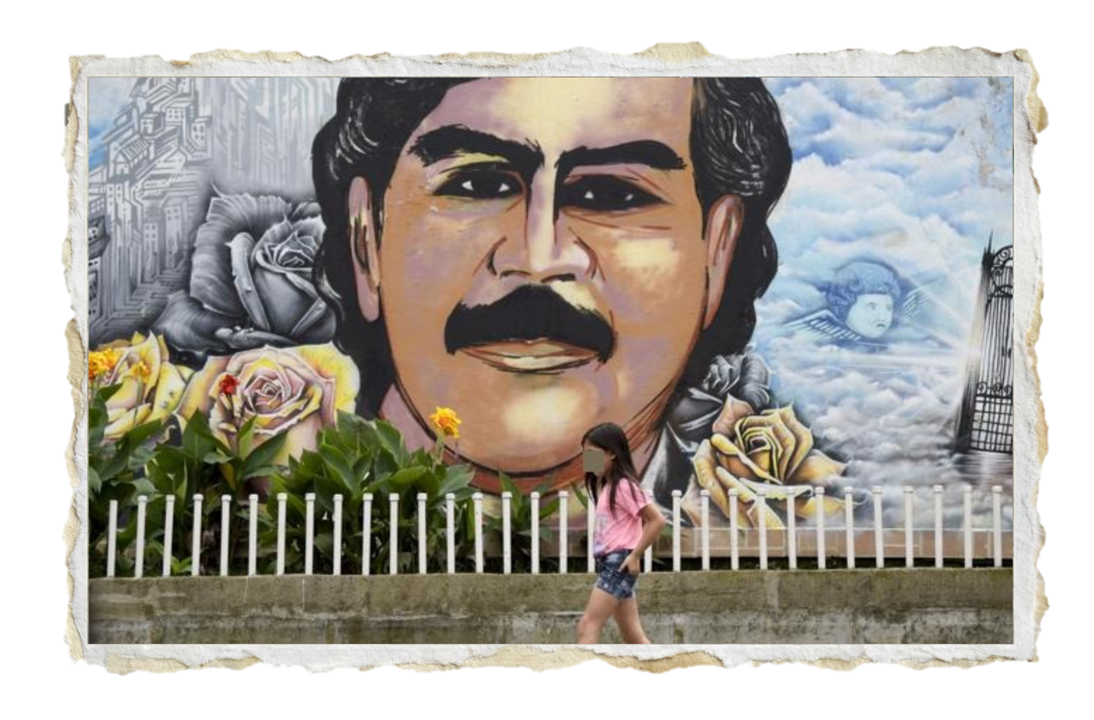
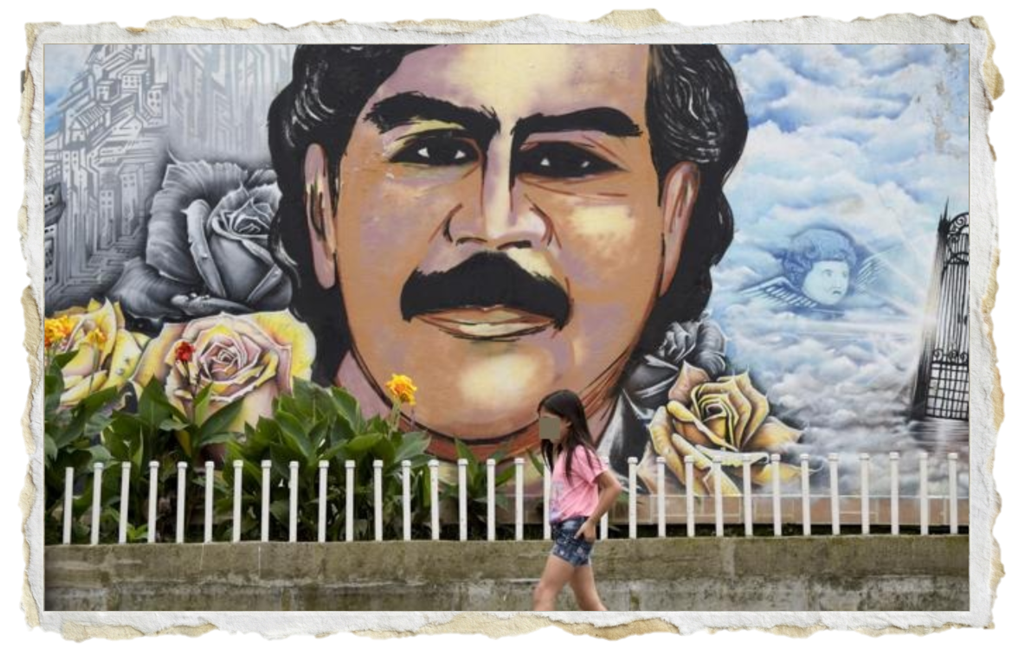
minor adjustment

diff --git a/thirdpage.html b/thirdpage.html
@@ -53,7 +53,7 @@
                 </div>
                 <h2 id="persist" data-title="When something persists, people get used to it">When something persists,
                     people get used to it</h2>
-                <p>The Drug War is a global anti-narcotics campaign that aims to reduce the drug trade while also
+                <p>The Drug War is a global campaign that aims to reduce the drug trade while also
                     battling against government corruption.<br>
                     The problem is that the actual abolition of drugs is not on everyone's interest: there are some
                     entities that prefer the situation as it is.

diff --git a/css/thirdpage.css b/css/thirdpage.css
@@ -8,5 +8,5 @@
 }
 
 #escobar{
-  width: 30rem;
+  width: 35rem;
 }
